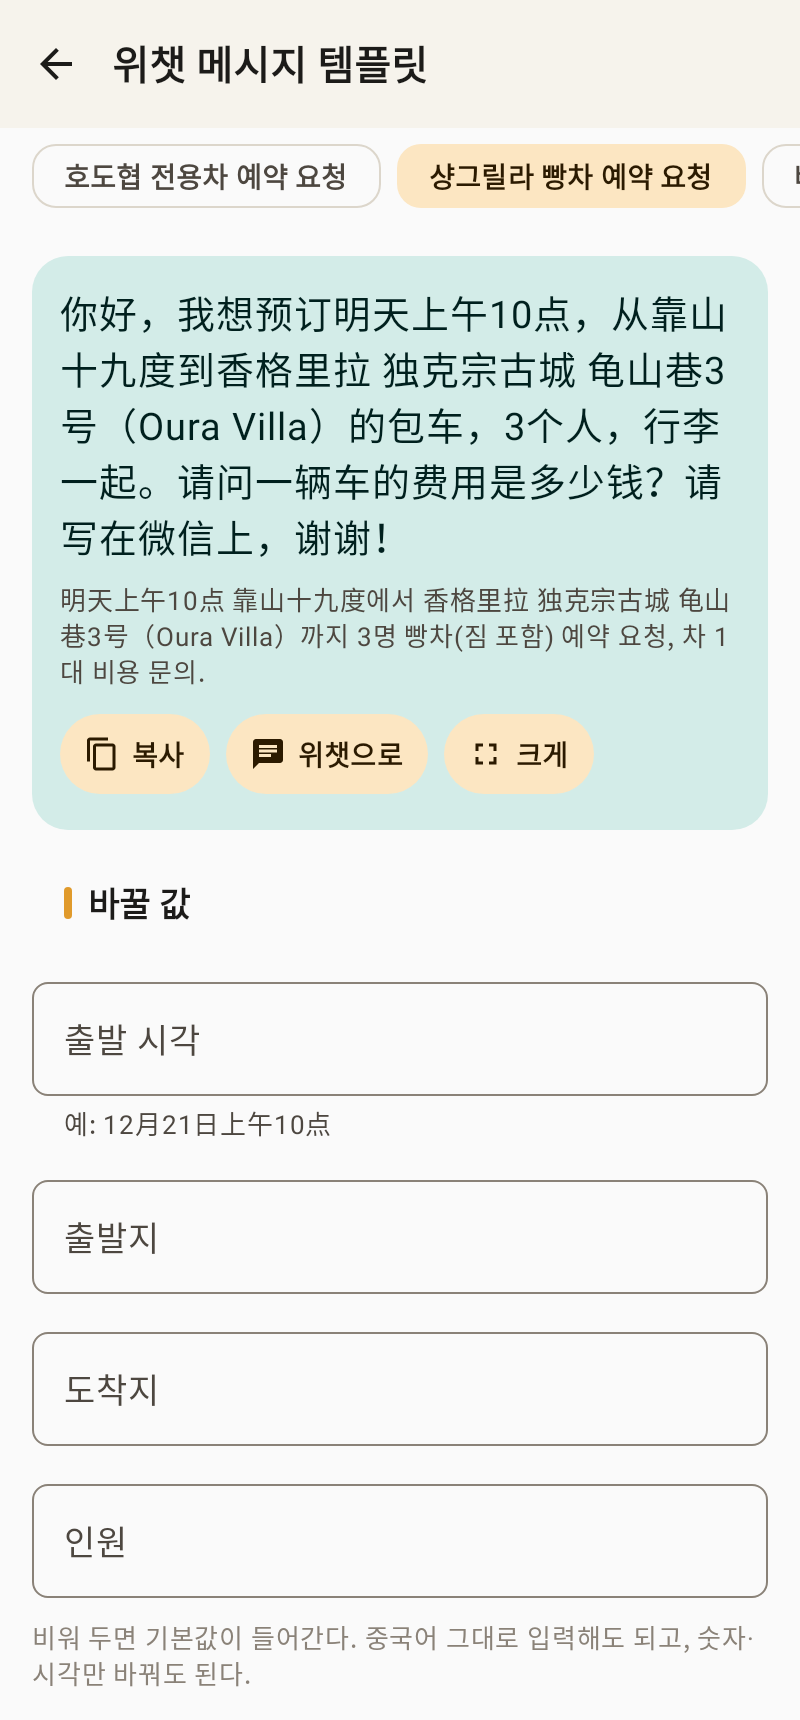
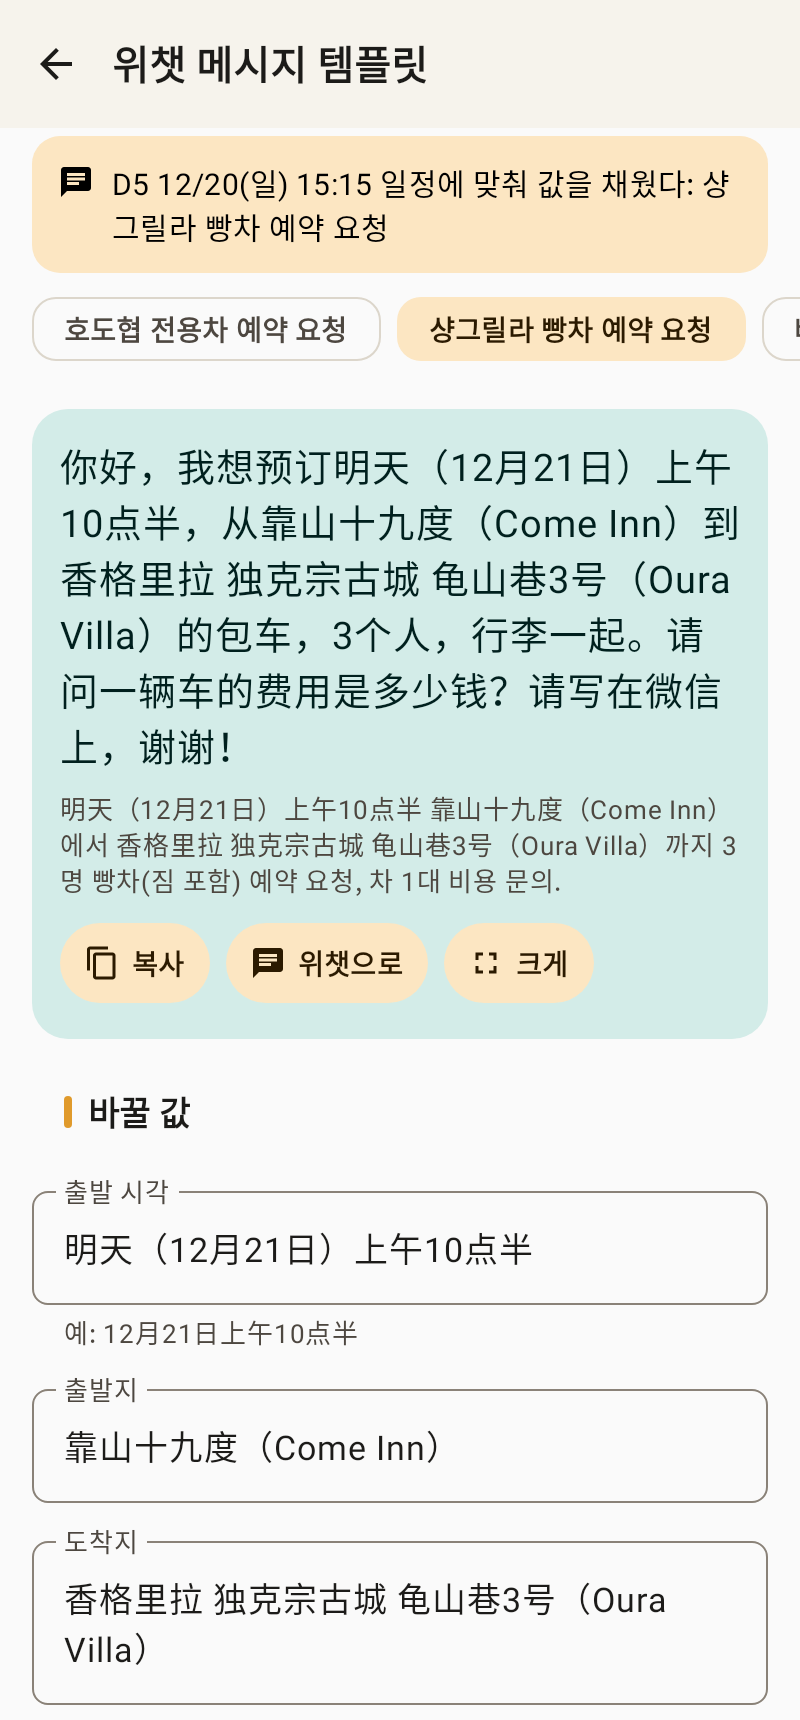
위챗 템플릿을 해당 일정 행에 배치하고 값 미리 채우기 (1.2.3)
- data/template_links.json 7건(D1·D2·D4·D5·D7), validate 검사
- 일정 카드 '위챗: …' 칩 → 템플릿 화면(일정 값 채움, 안내 배너)
- 템플릿 기본값 실제 일정에 맞춤(12:27, 10点半), 테스트 추가

Claude-Session: https://claude.ai/code/session_01RqJ3Se7kzhbz5fxXJgdegj

diff --git a/android/app/src/main/java/kr/koasis/travelyunnan/ui/schedule/ScheduleScreen.kt b/android/app/src/main/java/kr/koasis/travelyunnan/ui/schedule/ScheduleScreen.kt
@@ -89,6 +89,7 @@ private fun ScheduleRow(data: TripData, r: Schedule, isCurrent: Boolean, done: B
     val ctx = LocalContext.current
     val links = remember(r) { ScheduleLinks.find(data, r) }
     val message = remember(r) { ScheduleLinks.messagePhrase(data, r) }
+    val templates = remember(r) { data.templatesFor(r) }
     Row(Modifier.fillMaxWidth().height(IntrinsicSize.Min)) {
         // 타임라인 축
         Column(Modifier.width(22.dp).fillMaxHeight(), horizontalAlignment = Alignment.CenterHorizontally) {
@@ -97,13 +98,13 @@ private fun ScheduleRow(data: TripData, r: Schedule, isCurrent: Boolean, done: B
             Box(Modifier.width(2.dp).weight(1f).background(MaterialTheme.colorScheme.outlineVariant))
         }
         Spacer(Modifier.width(8.dp))
-        ScheduleCard(r, isCurrent, done, onLongPress, links, message, ctx)
+        ScheduleCard(r, isCurrent, done, onLongPress, links, message, templates, ctx)
     }
 }
 
 @OptIn(ExperimentalFoundationApi::class, ExperimentalLayoutApi::class)
 @Composable
-private fun ScheduleCard(r: Schedule, isCurrent: Boolean, done: Boolean, onLongPress: () -> Unit, links: List<LinkTarget>, message: kr.koasis.travelyunnan.data.json.Phrase?, ctx: android.content.Context) {
+private fun ScheduleCard(r: Schedule, isCurrent: Boolean, done: Boolean, onLongPress: () -> Unit, links: List<LinkTarget>, message: kr.koasis.travelyunnan.data.json.Phrase?, templates: List<kr.koasis.travelyunnan.data.json.TemplateLink>, ctx: android.content.Context) {
     val actions = LocalActions.current
     OutlinedCard(
         Modifier.fillMaxWidth().alpha(if (done) 0.45f else 1f).combinedClickable(onClick = {}, onLongClick = onLongPress),
@@ -125,10 +126,15 @@ private fun ScheduleCard(r: Schedule, isCurrent: Boolean, done: Boolean, onLongP
                 Text(listOf(r.transport, r.duration).filter { it.isNotBlank() && it != "-" }.joinToString(" · "), style = MaterialTheme.typography.bodyMedium)
             }
             if (r.tip.isNotBlank() && r.tip != "-") Text(r.tip, style = MaterialTheme.typography.bodyMedium)
-            if (links.isNotEmpty() || message != null || r.amapUrl != null) FlowRow(horizontalArrangement = Arrangement.spacedBy(8.dp), verticalArrangement = Arrangement.spacedBy(4.dp)) {
+            if (links.isNotEmpty() || message != null || r.amapUrl != null || templates.isNotEmpty()) FlowRow(horizontalArrangement = Arrangement.spacedBy(8.dp), verticalArrangement = Arrangement.spacedBy(4.dp)) {
                 links.forEach { l ->
                     AssistChip(onClick = { actions.openTaxi(l.type, l.id) }, label = { Text(l.label) },
                         leadingIcon = { Icon(Icons.Filled.LocalTaxi, null, Modifier.size(18.dp)) })
+                }
+                templates.forEach { tl ->
+                    AssistChip(onClick = { actions.openTemplates(tl.templateId, tl.id) }, label = { Text("위챗: ${tl.label}") },
+                        leadingIcon = { Icon(Icons.Filled.EditNote, null, Modifier.size(18.dp)) },
+                        colors = AssistChipDefaults.assistChipColors(containerColor = MaterialTheme.colorScheme.secondaryContainer))
                 }
                 message?.let { m ->
                     AssistChip(onClick = { actions.openShow(m.id) }, label = { Text("매니저에게 보여주기") },

diff --git a/android/app/src/main/java/kr/koasis/travelyunnan/ui/template/TemplateScreen.kt b/android/app/src/main/java/kr/koasis/travelyunnan/ui/template/TemplateScreen.kt
@@ -1,6 +1,7 @@
 package kr.koasis.travelyunnan.ui.template
 
 import androidx.compose.foundation.layout.*
+import androidx.compose.foundation.layout.Box
 import androidx.compose.foundation.lazy.LazyRow
 import androidx.compose.foundation.lazy.items
 import androidx.compose.foundation.rememberScrollState
@@ -24,12 +25,14 @@ import kr.koasis.travelyunnan.util.External
 
 /** 위챗 메시지 템플릿(S6-2): 변수 입력 → 중국어 본문 → 복사·위챗·크게 보여주기 */
 @Composable
-fun TemplateScreen(data: TripData, idArg: String?) {
+fun TemplateScreen(data: TripData, idArg: String?, linkArg: String? = null) {
     val actions = LocalActions.current
     val ctx = LocalContext.current
-    var sel by rememberSaveable(idArg) { mutableStateOf(idArg ?: Templates.all.first().id) }
+    val link = remember(linkArg) { data.templateLink(linkArg) }
+    var sel by rememberSaveable(idArg, linkArg) { mutableStateOf(link?.templateId ?: idArg ?: Templates.all.first().id) }
     val t = Templates.all.firstOrNull { it.id == sel } ?: Templates.all.first()
-    var values by rememberSaveable(sel) { mutableStateOf(mapOf<String, String>()) }
+    // 일정에서 열었으면 그 일정에 맞는 값을 미리 채운다
+    var values by rememberSaveable(sel, linkArg) { mutableStateOf(if (link != null && link.templateId == sel) link.values else mapOf()) }
     var showMode by rememberSaveable { mutableStateOf(false) }
     val zh = t.render(values)
     if (showMode) {
@@ -43,6 +46,12 @@ fun TemplateScreen(data: TripData, idArg: String?) {
     }
     Column(Modifier.fillMaxSize()) {
         AppTopBar("위챗 메시지 템플릿", onBack = actions.back)
+        link?.let { l ->
+            val day = data.day(l.dayId)
+            Box(Modifier.padding(horizontal = 16.dp, vertical = 4.dp)) {
+                InfoBanner("${l.dayId} ${day?.dateLabel ?: ""} ${l.timeStart} 일정에 맞춰 값을 채웠다: ${l.label}", Icons.AutoMirrored.Filled.Chat)
+            }
+        }
         LazyRow(contentPadding = PaddingValues(horizontal = 16.dp), horizontalArrangement = Arrangement.spacedBy(8.dp)) {
             items(Templates.all, key = { it.id }) { x -> FilterChip(sel == x.id, onClick = { sel = x.id }, label = { Text(x.title) }) }
         }

diff --git a/android/app/src/main/java/kr/koasis/travelyunnan/data/TripData.kt b/android/app/src/main/java/kr/koasis/travelyunnan/data/TripData.kt
@@ -36,6 +36,7 @@ class TripData(
     val mealNotes: List<String> = emptyList(),
     val emergency: EmergencyFile = EmergencyFile(),
     val hotspots: List<Hotspot> = emptyList(),
+    val templateLinks: List<TemplateLink> = emptyList(),
 ) {
     private val dayById = days.associateBy { it.id }
     private val lodgingById = lodgings.associateBy { it.id }
@@ -54,6 +55,8 @@ class TripData(
     fun mealsOf(dayId: String): List<Meal> = meals.filter { it.dayId == dayId }
     fun mealOption(id: String?): Pair<Meal, MealOption>? = id?.let { mealOptionById[it] }
     fun phrasesIn(category: String): List<Phrase> = phrases.filter { category in it.categories }
+    fun templatesFor(row: Schedule) = templateLinks.filter { it.dayId == row.dayId && it.timeStart == row.timeStart }
+    fun templateLink(id: String?) = id?.let { k -> templateLinks.firstOrNull { it.id == k } }
     fun hotspotsOf(mapId: String) = hotspots.filter { it.mapId == mapId }
     fun todosOf(lodgingId: String) = lodgingTodos.filter { it.lodgingId == lodgingId }
     /** 중국어 문자열을 포함하는 회화 문장(유의사항 본문의 인라인 문장 연결용) */
@@ -121,6 +124,7 @@ class TripData(
                 lodgingTodos = items("lodging_todos.json", LodgingTodo.serializer()).items,
                 lodgingNotes = lodgings.notes,
                 mealNotes = meals.notes,
+                templateLinks = runCatching { items("template_links.json", TemplateLink.serializer()).items }.getOrDefault(emptyList()),
                 hotspots = runCatching { items("map_hotspots.json", Hotspot.serializer()).items }.getOrDefault(emptyList()),
                 emergency = runCatching { json.decodeFromString(EmergencyFile.serializer(), read("emergency.json")) }.getOrDefault(EmergencyFile()),
             )

diff --git a/android/app/src/main/java/kr/koasis/travelyunnan/ui/nav/AppNav.kt b/android/app/src/main/java/kr/koasis/travelyunnan/ui/nav/AppNav.kt
@@ -88,7 +88,7 @@ fun AppNav(vm: AppViewModel, initialRoute: String? = null) {
             openPacking = { go(Routes.PACKING) },
             openNotes = { go(Routes.NOTES) },
             openEmergency = { go(Routes.EMERGENCY) },
-            openTemplates = { go(Routes.templates(it)) },
+            openTemplates = { id, link -> go(Routes.templates(id, link)) },
             openNumber = { go(Routes.NUMBER) },
             openDiary = { go(Routes.diary(it)) },
             back = { nav.popBackStack() },
@@ -159,8 +159,11 @@ fun AppNav(vm: AppViewModel, initialRoute: String? = null) {
                 composable(Routes.PACKING) { PackingScreen(vm, d) }
                 composable(Routes.NOTES) { NotesScreen(d) }
                 composable(Routes.EMERGENCY) { EmergencyScreen(vm, d) }
-                composable(Routes.TEMPLATES, arguments = listOf(navArgument("id") { type = NavType.StringType; nullable = true })) {
-                    TemplateScreen(d, it.arguments?.getString("id"))
+                composable(Routes.TEMPLATES, arguments = listOf(
+                    navArgument("id") { type = NavType.StringType; nullable = true },
+                    navArgument("link") { type = NavType.StringType; nullable = true },
+                )) {
+                    TemplateScreen(d, it.arguments?.getString("id"), it.arguments?.getString("link"))
                 }
                 composable(Routes.NUMBER) { NumberCardScreen(vm) }
                 composable(Routes.DIARY, arguments = listOf(navArgument("day") { type = NavType.StringType; nullable = true })) {

diff --git a/android/app/src/main/java/kr/koasis/travelyunnan/ui/nav/Actions.kt b/android/app/src/main/java/kr/koasis/travelyunnan/ui/nav/Actions.kt
@@ -22,7 +22,7 @@ data class Actions(
     val openPacking: () -> Unit = {},
     val openNotes: () -> Unit = {},
     val openEmergency: () -> Unit = {},
-    val openTemplates: (String?) -> Unit = {},
+    val openTemplates: (String?, String?) -> Unit = { _, _ -> },
     val openNumber: () -> Unit = {},
     val openDiary: (String?) -> Unit = {},
     val back: () -> Unit = {},
@@ -50,7 +50,7 @@ object Routes {
     const val PACKING = "packing"
     const val NOTES = "notes"
     const val EMERGENCY = "emergency"
-    const val TEMPLATES = "templates?id={id}"
+    const val TEMPLATES = "templates?id={id}&link={link}"
     const val NUMBER = "number"
     const val DIARY = "diary?day={day}"
 
@@ -63,6 +63,7 @@ object Routes {
     fun lodgings(id: String?) = "lodgings" + (id?.let { "?id=$it" } ?: "")
     fun meals(day: String?) = "meals" + (day?.let { "?day=$it" } ?: "")
     fun menu(food: String?) = "menu" + (food?.let { "?food=$it" } ?: "")
-    fun templates(id: String?) = "templates" + (id?.let { "?id=$it" } ?: "")
+    fun templates(id: String?, link: String? = null) =
+        "templates" + listOfNotNull(id?.let { "id=$it" }, link?.let { "link=$it" }).joinToString("&").let { if (it.isEmpty()) "" else "?$it" }
     fun diary(day: String?) = "diary" + (day?.let { "?day=$it" } ?: "")
 }

diff --git a/android/app/src/main/java/kr/koasis/travelyunnan/ui/more/MoreScreens.kt b/android/app/src/main/java/kr/koasis/travelyunnan/ui/more/MoreScreens.kt
@@ -45,7 +45,7 @@ fun MoreScreen() {
         MoreItem(Icons.Filled.Checklist, "준비물·날씨", "체크리스트와 지역별 옷차림", true, actions.openPacking),
         MoreItem(Icons.Filled.Warning, "유의사항", "고산병·열차·빵차·배달", true, actions.openNotes),
         MoreItem(Icons.Filled.Lock, "긴급·여권", "연락처·고산병·여권(생체인증 잠금)", true, actions.openEmergency),
-        MoreItem(Icons.AutoMirrored.Filled.Chat, "위챗 메시지 템플릿", "빵차·픽업·배달 요청문, 변수 치환", true) { actions.openTemplates(null) },
+        MoreItem(Icons.AutoMirrored.Filled.Chat, "위챗 메시지 템플릿", "빵차·픽업·배달 요청문, 변수 치환", true) { actions.openTemplates(null, null) },
         MoreItem(Icons.Filled.Pin, "숫자 카드", "금액을 크게, 중국어 읽기·흥정 문장", true, actions.openNumber),
         MoreItem(Icons.Filled.PhotoCamera, "사진 일기", "일차별 사진·메모", true) { actions.openDiary(null) },
         MoreItem(Icons.Filled.Settings, "설정", "큰 글씨, 음성, 날짜 지정 모드", true, actions.openSettings),

diff --git a/android/app/src/main/java/kr/koasis/travelyunnan/domain/Templates.kt b/android/app/src/main/java/kr/koasis/travelyunnan/domain/Templates.kt
@@ -34,7 +34,7 @@ object Templates {
 
     val shangrila: Template = run {
         val f = listOf(
-            TemplateField("date", "출발 시각", "明天上午10点", "예: 12月21日上午10点"),
+            TemplateField("date", "출발 시각", "明天上午10点半", "예: 12月21日上午10点半"),
             TemplateField("from", "출발지", "靠山十九度"),
             TemplateField("to", "도착지", "香格里拉 独克宗古城 龟山巷3号（Oura Villa）"),
             TemplateField("persons", "인원", "3"),
@@ -56,7 +56,7 @@ object Templates {
 
     val pickup: Template = run {
         val f = listOf(
-            TemplateField("date", "도착 시각", "12月17日 12:54", "열차 도착 시각"),
+            TemplateField("date", "도착 시각", "12月17日 12:27", "열차 도착 시각"),
             TemplateField("where", "도착 장소", "丽江站"),
             TemplateField("persons", "인원·짐", "3个人，3个行李箱"),
         )

diff --git a/android/app/src/test/java/kr/koasis/travelyunnan/DomainTest.kt b/android/app/src/test/java/kr/koasis/travelyunnan/DomainTest.kt
@@ -150,6 +150,17 @@ class S6Test {
         assertEquals(4, Templates.all.size)
     }
 
+    @Test fun templateLinksAttachToRows() {
+        val d = TripDataHolder.data
+        val d4 = d.scheduleOf("D4").first { it.timeStart == "17:30" }
+        assertEquals(listOf("tpl-tiger"), d.templatesFor(d4).map { it.templateId })
+        val d5 = d.scheduleOf("D5").first { it.timeStart == "15:15" }
+        val sh = d.templatesFor(d5).single()
+        assertTrue(Templates.shangrila.render(sh.values).contains("上午10点半"))
+        val d1 = d.scheduleOf("D1").first { it.timeStart == "23:40" }
+        assertEquals(setOf("tpl-pickup", "tpl-delivery"), d.templatesFor(d1).map { it.templateId }.toSet())
+    }
+
     @Test fun hotspotsResolve() {
         val d = TripDataHolder.data
         assertTrue(d.hotspots.size >= 50)

diff --git a/android/app/src/test/java/kr/koasis/travelyunnan/ScreenshotTest.kt b/android/app/src/test/java/kr/koasis/travelyunnan/ScreenshotTest.kt
@@ -141,7 +141,7 @@ class ScreenshotTest {
         EmergencyContent(data, unlocked = true, lockedMessage = null, {}, {}, { sample }, {}, canAuth = true)
     }
 
-    @Test fun template() = shot("21_template") { TemplateScreen(data, "tpl-shangrila") }
+    @Test fun template() = shot("21_template") { TemplateScreen(data, null, "tl-06") }
 
     @Test fun number_card() = shot("22_number_card") { NumberCardContent { true } }
 

diff --git a/android/app/src/main/java/kr/koasis/travelyunnan/data/json/Models.kt b/android/app/src/main/java/kr/koasis/travelyunnan/data/json/Models.kt
@@ -231,3 +231,13 @@ data class Hotspot(
     val zh: String = "",
     val note: String = "",
 )
+
+@Serializable
+data class TemplateLink(
+    val id: String,
+    val dayId: String,
+    val timeStart: String,
+    val templateId: String,
+    val label: String = "",
+    val values: Map<String, String> = emptyMap(),
+)

diff --git a/android/app/src/main/java/kr/koasis/travelyunnan/BuildConfigInfo.kt b/android/app/src/main/java/kr/koasis/travelyunnan/BuildConfigInfo.kt
@@ -1,5 +1,5 @@
 package kr.koasis.travelyunnan
 
 object BuildConfigInfo {
-    const val VERSION = "1.2.2"
+    const val VERSION = "1.2.3"
 }

diff --git a/tools/validate.py b/tools/validate.py
@@ -115,6 +115,12 @@ def main(d):
              (t == "meal" and any(k in n for n in meal_names))
         if not ok:
             errors.append(f"hotspot {x['id']}: 대상 없음 {t}:{k}")
+    sched_keys = {(r["dayId"], r["timeStart"]) for r in items("schedule.json")}
+    for x in data.get("template_links.json", {}).get("items", []):
+        if (x["dayId"], x["timeStart"]) not in sched_keys:
+            errors.append(f"template_links {x['id']}: 일정 행 없음 {x['dayId']} {x['timeStart']}")
+        if x["templateId"] not in {"tpl-tiger", "tpl-shangrila", "tpl-delivery", "tpl-pickup"}:
+            errors.append(f"template_links {x['id']}: 템플릿 {x['templateId']} 없음")
     for x in items("place_links.json"):
         t, k = x["type"], x["key"]
         ok = (t == "lodging" and k in lodging_ids) or (t == "place" and k in place_ids) or \
